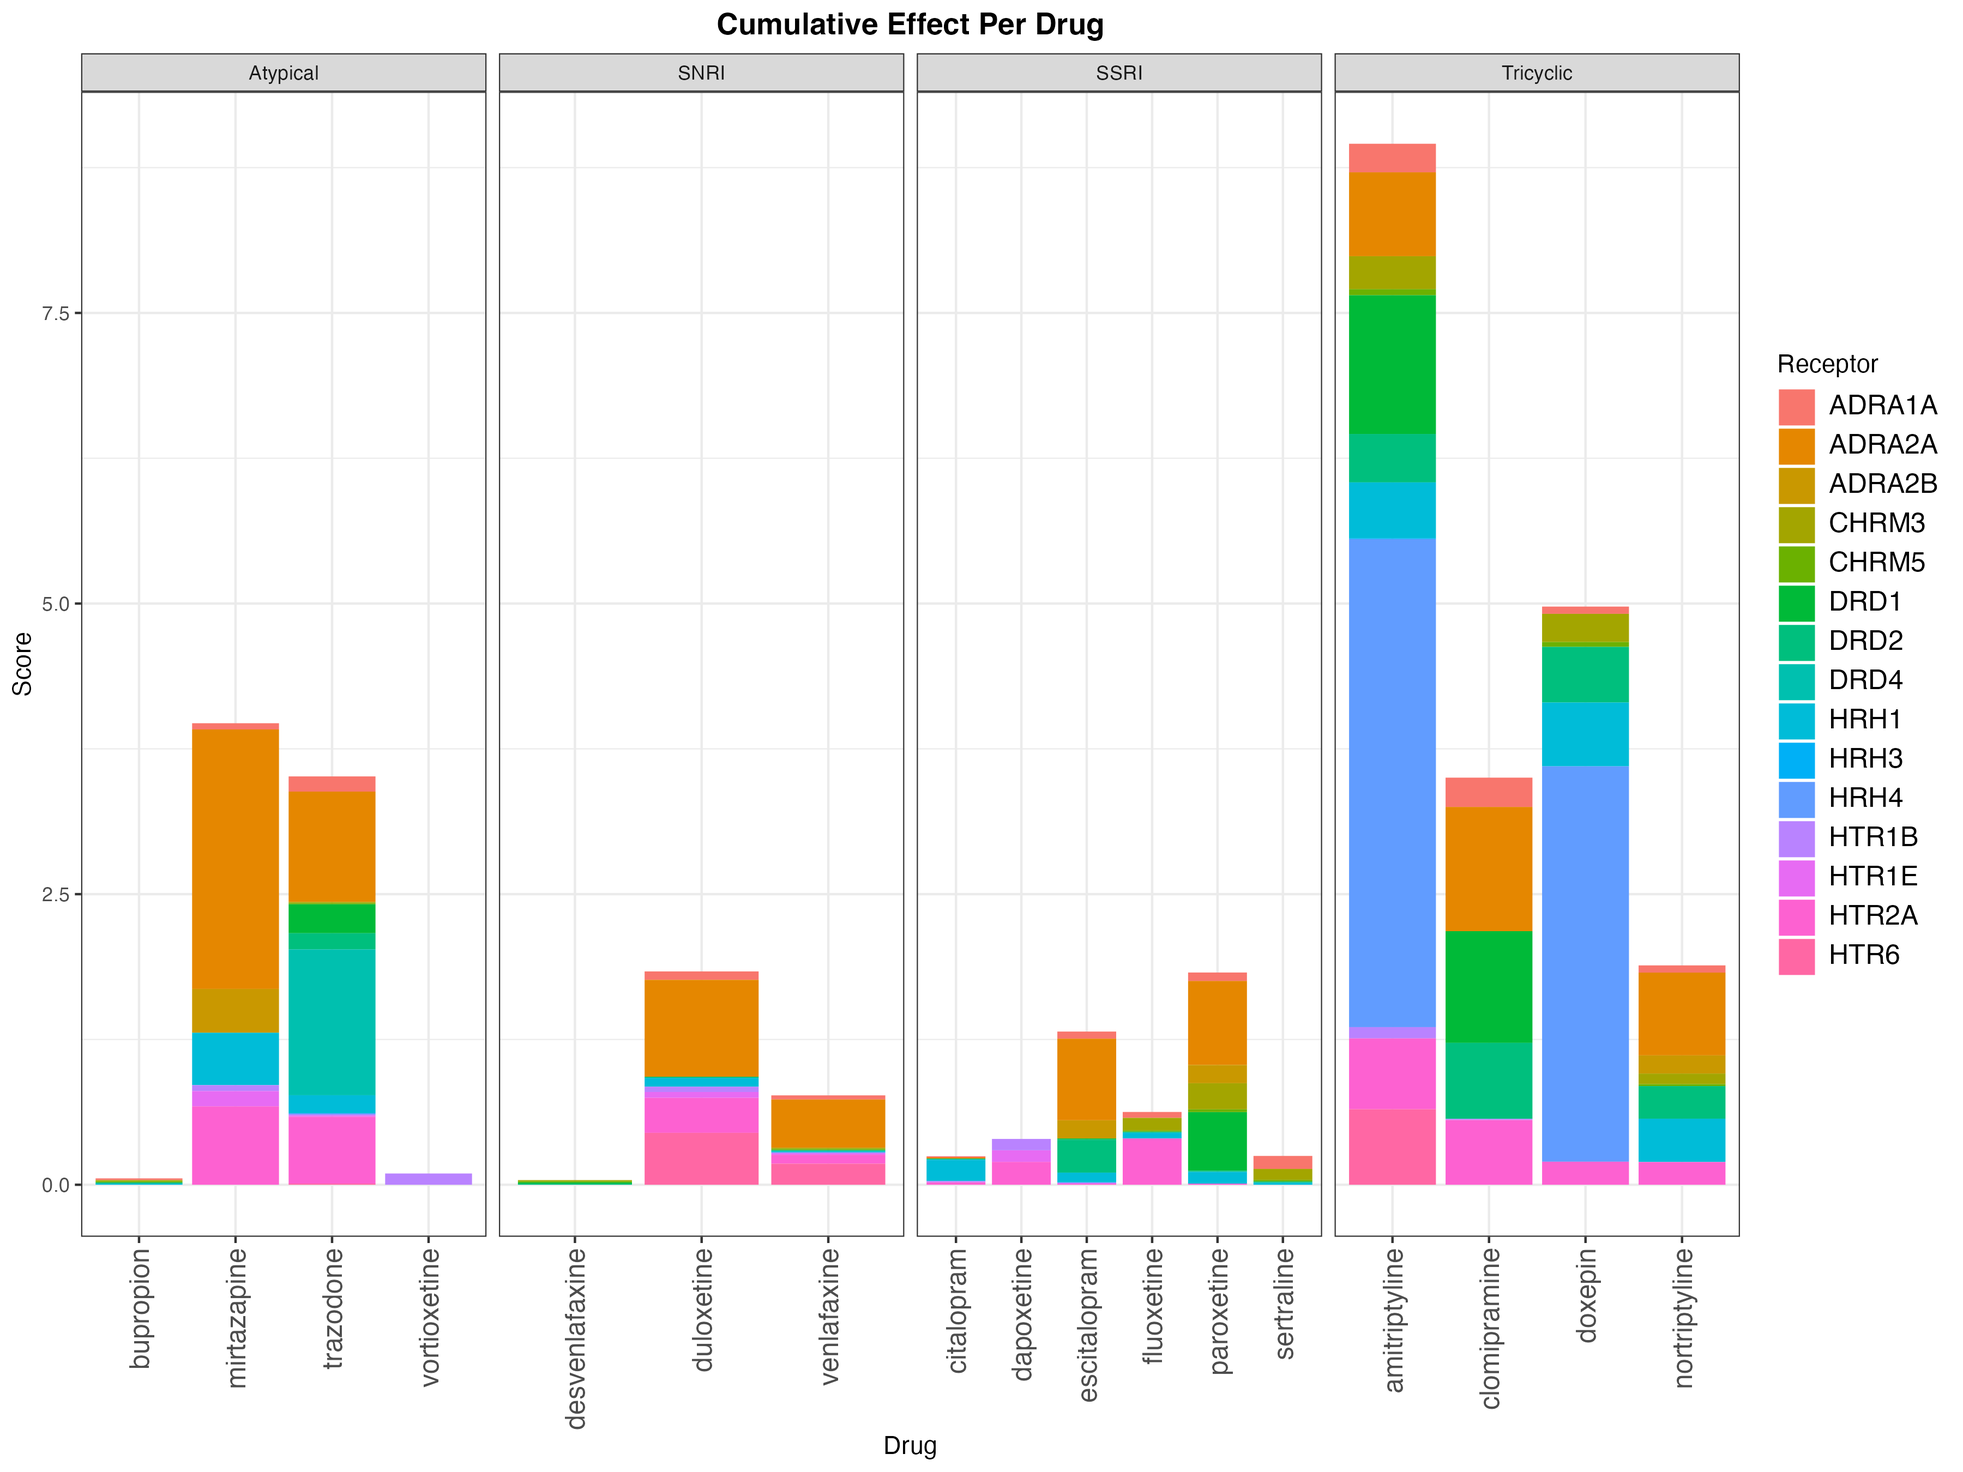
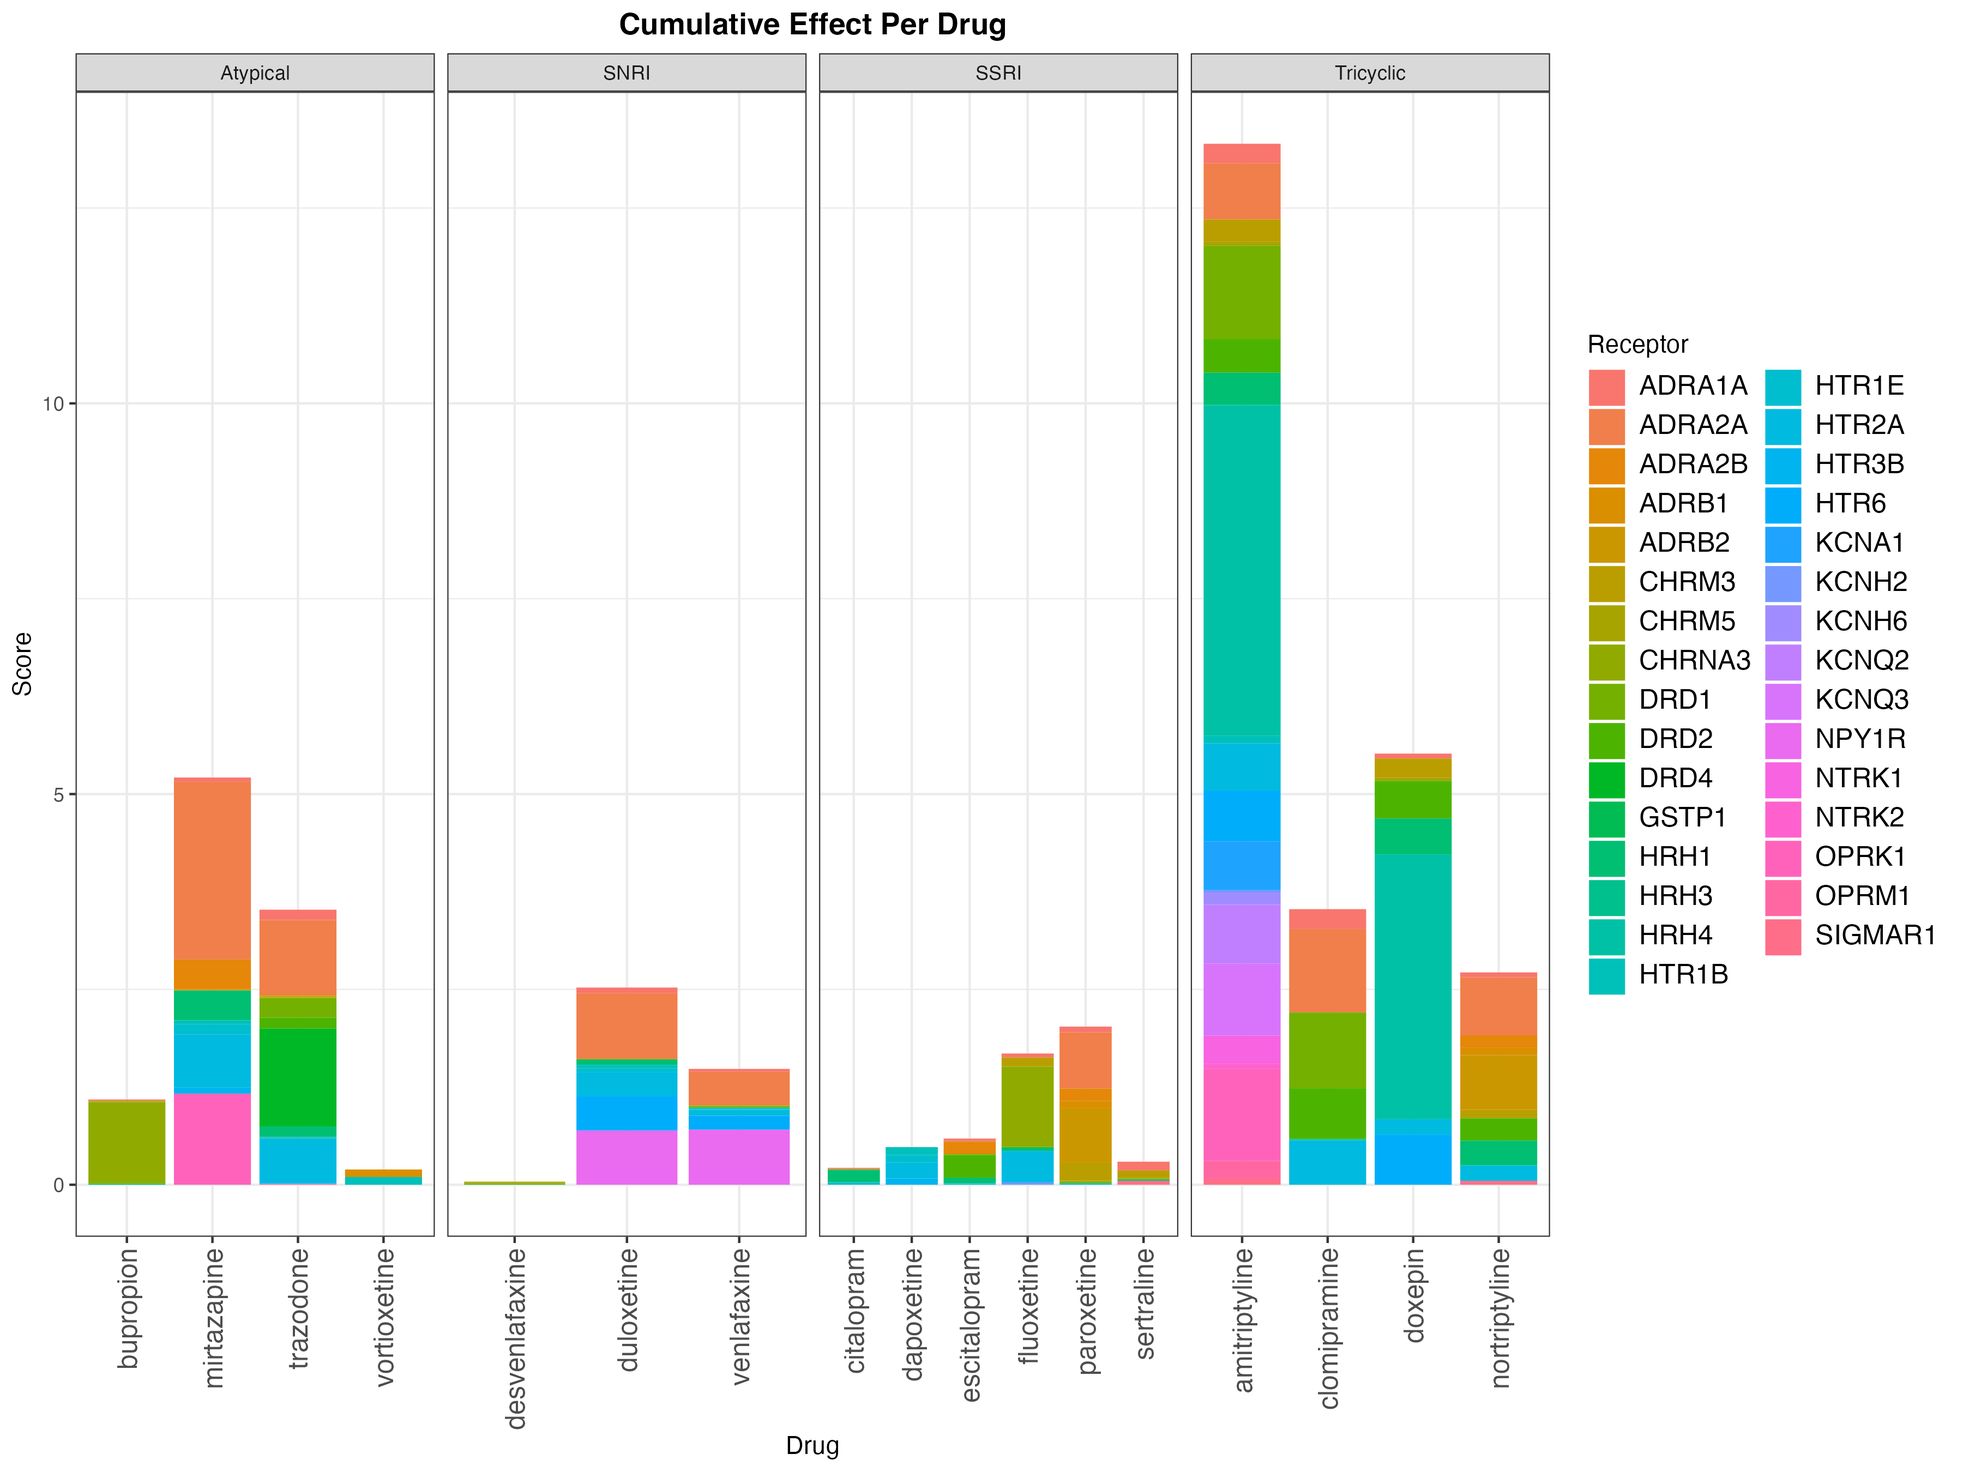
Updating side effect graphs for 009

diff --git a/docs/009/receptor_side_effect_graphs.html b/docs/009/receptor_side_effect_graphs.html
@@ -14611,7 +14611,7 @@ $$\forall IV \in R,  b(𝛽_{𝐼𝑉} * pKi)$$<p>Where</p>
 <p>CAVEATS:</p>
 <ol>
 <li>Some receptors did not have binding affinity data.  I defaulted to a pKI score of 0.84 ( =~ 1430 ki), which is the average of all other measuresments</li>
-<li>I used a coloc threshold of h4 &gt; 60% &amp;&amp; h3 &lt; 10%, in order to include many more data points while keeping results due to low power, and filtering results due to different putative causal variants</li>
+<li>I used a coloc threshold of h4 &gt; 60% &amp;&amp; h3 &lt; 20%, in order to include many more data points while keeping results due to low power, and filtering results due to different putative causal variants</li>
 </ol>
 
 </div>
@@ -14649,6 +14649,51 @@ $$\forall IV \in R,  b(𝛽_{𝐼𝑉} * pKi)$$<p>Where</p>
 </div>
 <div class="jp-InputArea jp-Cell-inputArea"><div class="jp-InputPrompt jp-InputArea-prompt">
 </div><div class="jp-RenderedHTMLCommon jp-RenderedMarkdown jp-MarkdownOutput " data-mime-type="text/markdown">
+<h3 id="Highlighted-Side-effects">Highlighted Side-effects<a class="anchor-link" href="#Highlighted-Side-effects">&#182;</a></h3><h4 id="Weight-Gain:">Weight Gain:<a class="anchor-link" href="#Weight-Gain:">&#182;</a></h4><p>Once again, we see CHRM3 show up, and with a high level of matching with existing literature.  There are interesting other markers in both directions.  Weight does seem to be reported as gain and loss amitriptyline, so the confused graph may be accurate.</p>
+<ul>
+<li>High likelihood of weight gain: amitriptyline, doxepine, maprotiline, mirtazapine, trimipramine</li>
+<li>Medium: clomipramine, imipramine, nortriptyline</li>
+<li>Low: agomelatine, citalopram, escitalopram, fluoxetine, fluvoxamine, moclobemide, sertraline, vortioxetine, tranylcypromine.</li>
+</ul>
+<p>2 things:</p>
+<ol>
+<li>the CHRM3 results align with the triciclic results, but NOT the SSRI results.</li>
+<li>If HRH1 is in the wrong direction (which it could be), this would make more sense with tricyclic results AND atypical results.</li>
+</ol>
+<p>I'm gonna guess HRH1 is not pointing in the right direction: Link between HRH1 and Weight (in anti-psychotics): <a href="https://pubmed.ncbi.nlm.nih.gov/21336576/">https://pubmed.ncbi.nlm.nih.gov/21336576/</a></p>
+<p><img src="scratch/results/plots/Weight_change_vs_drug_h4_60.png" alt="alt" /></p>
+<h4 id="Blood-Pressure/Hypertension-and-Cholesterol">Blood Pressure/Hypertension and Cholesterol<a class="anchor-link" href="#Blood-Pressure/Hypertension-and-Cholesterol">&#182;</a></h4><p>I'm not sure whether to include other possible cardiac / heart diseases in the results as well.  Possibly some guidance would be necessary as to what might be included in our 'side-effect' map.  For example, Aws mentioned that cardiac rhythm events and triciclic drugs have some literature around them.</p>
+<p>Also 'Dyslipidaemia', but that might also be mostly covered in the cholesterol chart below</p>
+<table>
+<thead>
+<tr>
+  <th>.</th>
+  <th>.</th>
+</tr>
+</thead>
+<tbody>
+<tr>
+  <td><img src="scratch/results/plots/Blood_Pressure_vs_drug_h4_60.png" alt="alt" /></td>
+  <td><img src="scratch/results/plots/Cholesterol_vs_drug_h4_60.png" alt="alt" /></td>
+</tr>
+</tbody>
+</table>
+<p>Interestingly, amitriptaline is prescribed for migraines, which might be backed up by this chart:</p>
+<p><img src="scratch/results/plots/Ear_and_labyrinth_disorders_vs_drug_h4_60.png" alt="alt" /></p>
+
+</div>
+</div>
+</div>
+</div>
+<div class="jp-Cell jp-MarkdownCell jp-Notebook-cell">
+<div class="jp-Cell-inputWrapper">
+<div class="jp-Collapser jp-InputCollapser jp-Cell-inputCollapser">
+</div>
+<div class="jp-InputArea jp-Cell-inputArea"><div class="jp-InputPrompt jp-InputArea-prompt">
+</div><div class="jp-RenderedHTMLCommon jp-RenderedMarkdown jp-MarkdownOutput " data-mime-type="text/markdown">
+<hr />
+<hr />
+<hr />
 <h3 id="Side-Effect-Per-Receptor-vs-Drug">Side Effect Per Receptor vs Drug<a class="anchor-link" href="#Side-Effect-Per-Receptor-vs-Drug">&#182;</a></h3><table>
 <thead>
 <tr>
@@ -14658,60 +14703,60 @@ $$\forall IV \in R,  b(𝛽_{𝐼𝑉} * pKi)$$<p>Where</p>
 </thead>
 <tbody>
 <tr>
-  <td><img src="scratch/results/plots/Hypertension_vs_drug_cumulative_h4_60.png" alt="alt" /></td>
-  <td><img src="scratch/results/plots/Cholesterol_serum_elevated_vs_drug_cumulative_h4_60.png" alt="alt" /></td>
+  <td><img src="scratch/results/plots/Blood_Pressure_vs_drug_h4_60.png" alt="alt" /></td>
+  <td><img src="scratch/results/plots/Cholesterol_vs_drug_h4_60.png" alt="alt" /></td>
 </tr>
 <tr>
-  <td><img src="scratch/results/plots/Weight_change_vs_drug_cumulative_h4_60.png" alt="alt" /></td>
-  <td><img src="scratch/results/plots/Hypokalaemia_vs_drug_cumulative_h4_60.png" alt="alt" /></td>
+  <td><img src="scratch/results/plots/Weight_change_vs_drug_h4_60.png" alt="alt" /></td>
+  <td><img src="scratch/results/plots/Hypokalaemia_vs_drug_h4_60.png" alt="alt" /></td>
 </tr>
 <tr>
-  <td><img src="scratch/results/plots/Urinary_Difficulties_vs_drug_cumulative_h4_60.png" alt="alt" /></td>
-  <td><img src="scratch/results/plots/Constipation_vs_drug_cumulative_h4_60.png" alt="alt" /></td>
+  <td><img src="scratch/results/plots/Urinary_Difficulties_vs_drug_h4_60.png" alt="alt" /></td>
+  <td><img src="scratch/results/plots/Constipation_vs_drug_h4_60.png" alt="alt" /></td>
 </tr>
 <tr>
-  <td><img src="scratch/results/plots/Back_pain_vs_drug_cumulative_h4_60.png" alt="alt" /></td>
-  <td><img src="scratch/results/plots/Malnutrition_vs_drug_cumulative_h4_60.png" alt="alt" /></td>
+  <td><img src="scratch/results/plots/Back_pain_vs_drug_h4_60.png" alt="alt" /></td>
+  <td><img src="scratch/results/plots/Malnutrition_vs_drug_h4_60.png" alt="alt" /></td>
 </tr>
 <tr>
-  <td><img src="scratch/results/plots/Unspecified_disorder_of_skin_and_subcutaneous_tissue_vs_drug_cumulative_h4_60.png" alt="alt" /></td>
-  <td><img src="scratch/results/plots/Conjunctivitis_vs_drug_cumulative_h4_60.png" alt="alt" /></td>
+  <td><img src="scratch/results/plots/Unspecified_disorder_of_skin_and_subcutaneous_tissue_vs_drug_h4_60.png" alt="alt" /></td>
+  <td><img src="scratch/results/plots/Conjunctivitis_vs_drug_h4_60.png" alt="alt" /></td>
 </tr>
 <tr>
-  <td><img src="scratch/results/plots/Tinnitus_vs_drug_cumulative_h4_60.png" alt="alt" /></td>
-  <td><img src="scratch/results/plots/Headache_vs_drug_cumulative_h4_60.png" alt="alt" /></td>
+  <td><img src="scratch/results/plots/Tinnitus_vs_drug_h4_60.png" alt="alt" /></td>
+  <td><img src="scratch/results/plots/Headache_vs_drug_h4_60.png" alt="alt" /></td>
 </tr>
 <tr>
-  <td><img src="scratch/results/plots/Oedema_vs_drug_cumulative_h4_60.png" alt="alt" /></td>
-  <td><img src="scratch/results/plots/Generalised_oedema___Oedema_peripheral_vs_drug_cumulative_h4_60.png" alt="alt" /></td>
+  <td><img src="scratch/results/plots/Oedema_vs_drug_h4_60.png" alt="alt" /></td>
+  <td><img src="scratch/results/plots/Generalised_oedema___Oedema_peripheral_vs_drug_h4_60.png" alt="alt" /></td>
 </tr>
 <tr>
-  <td><img src="scratch/results/plots/Eczema___Dry_skin_vs_drug_cumulative_h4_60.png" alt="alt" /></td>
-  <td><img src="scratch/results/plots/Irritability_vs_drug_cumulative_h4_60.png" alt="alt" /></td>
+  <td><img src="scratch/results/plots/Eczema___Dry_skin_vs_drug_h4_60.png" alt="alt" /></td>
+  <td><img src="scratch/results/plots/Irritability_vs_drug_h4_60.png" alt="alt" /></td>
 </tr>
 <tr>
-  <td><img src="scratch/results/plots/Bruxism_vs_drug_cumulative_h4_60.png" alt="alt" /></td>
-  <td><img src="scratch/results/plots/Rhinitis_vs_drug_cumulative_h4_60.png" alt="alt" /></td>
+  <td><img src="scratch/results/plots/Bruxism_vs_drug_h4_60.png" alt="alt" /></td>
+  <td><img src="scratch/results/plots/Rhinitis_vs_drug_h4_60.png" alt="alt" /></td>
 </tr>
 <tr>
-  <td><img src="scratch/results/plots/Anorexia_vs_drug_cumulative_h4_60.png" alt="alt" /></td>
-  <td><img src="scratch/results/plots/Ear_and_labyrinth_disorders_vs_drug_cumulative_h4_60.png" alt="alt" /></td>
+  <td><img src="scratch/results/plots/Anorexia_vs_drug_h4_60.png" alt="alt" /></td>
+  <td><img src="scratch/results/plots/Ear_and_labyrinth_disorders_vs_drug_h4_60.png" alt="alt" /></td>
 </tr>
 <tr>
-  <td><img src="scratch/results/plots/Insomnia___Sleep_Disorder_vs_drug_cumulative_h4_60.png" alt="alt" /></td>
-  <td><img src="scratch/results/plots/Anxiety_vs_drug_cumulative_h4_60.png" alt="alt" /></td>
+  <td><img src="scratch/results/plots/Insomnia___Sleep_Disorder_vs_drug_h4_60.png" alt="alt" /></td>
+  <td><img src="scratch/results/plots/Anxiety_vs_drug_h4_60.png" alt="alt" /></td>
 </tr>
 <tr>
-  <td><img src="scratch/results/plots/Bronchospasm_vs_drug_cumulative_h4_60.png" alt="alt" /></td>
-  <td><img src="scratch/results/plots/Bronchitis_vs_drug_cumulative_h4_60.png" alt="alt" /></td>
+  <td><img src="scratch/results/plots/Bronchospasm_vs_drug_h4_60.png" alt="alt" /></td>
+  <td><img src="scratch/results/plots/Bronchitis_vs_drug_h4_60.png" alt="alt" /></td>
 </tr>
 <tr>
-  <td><img src="scratch/results/plots/Upset_stomach_vs_drug_cumulative_h4_60.png" alt="alt" /></td>
-  <td><img src="scratch/results/plots/Abdominal_pain___disorder_vs_drug_cumulative_h4_60.png" alt="alt" /></td>
+  <td><img src="scratch/results/plots/Upset_stomach_vs_drug_h4_60.png" alt="alt" /></td>
+  <td><img src="scratch/results/plots/Abdominal_pain___disorder_vs_drug_h4_60.png" alt="alt" /></td>
 </tr>
 <tr>
-  <td><img src="scratch/results/plots/Sinusitis_vs_drug_cumulative_h4_60.png" alt="alt" /></td>
-  <td><img src="scratch/results/plots/Shoulder_pain_vs_drug_cumulative_h4_60.png" alt="alt" /></td>
+  <td><img src="scratch/results/plots/Sinusitis_vs_drug_h4_60.png" alt="alt" /></td>
+  <td><img src="scratch/results/plots/Shoulder_pain_vs_drug_h4_60.png" alt="alt" /></td>
 </tr>
 </tbody>
 </table>
@@ -14726,6 +14771,9 @@ $$\forall IV \in R,  b(𝛽_{𝐼𝑉} * pKi)$$<p>Where</p>
 </div>
 <div class="jp-InputArea jp-Cell-inputArea"><div class="jp-InputPrompt jp-InputArea-prompt">
 </div><div class="jp-RenderedHTMLCommon jp-RenderedMarkdown jp-MarkdownOutput " data-mime-type="text/markdown">
+<hr />
+<hr />
+<hr />
 <h3 id="Specific-Effects-Per-Receptor">Specific Effects Per Receptor<a class="anchor-link" href="#Specific-Effects-Per-Receptor">&#182;</a></h3><table>
 <thead>
 <tr>
@@ -14735,35 +14783,43 @@ $$\forall IV \in R,  b(𝛽_{𝐼𝑉} * pKi)$$<p>Where</p>
 </thead>
 <tbody>
 <tr>
-  <td><img src="scratch/results/plots/DRD2_vs_side_effects_cumulative_h4_60.png" alt="alt" /></td>
-  <td><img src="scratch/results/plots/ADRA2B_vs_side_effects_cumulative_h4_60.png" alt="alt" /></td>
+  <td><img src="scratch/results/plots/DRD2_vs_side_effects_h4_60.png" alt="alt" /></td>
+  <td><img src="scratch/results/plots/ADRA2B_vs_side_effects_h4_60.png" alt="alt" /></td>
 </tr>
 <tr>
-  <td><img src="scratch/results/plots/DRD1_vs_side_effects_cumulative_h4_60.png" alt="alt" /></td>
-  <td><img src="scratch/results/plots/HRH1_vs_side_effects_cumulative_h4_60.png" alt="alt" /></td>
+  <td><img src="scratch/results/plots/DRD1_vs_side_effects_h4_60.png" alt="alt" /></td>
+  <td><img src="scratch/results/plots/HRH1_vs_side_effects_h4_60.png" alt="alt" /></td>
 </tr>
 <tr>
-  <td><img src="scratch/results/plots/HTR1B_vs_side_effects_cumulative_h4_60.png" alt="alt" /></td>
-  <td><img src="scratch/results/plots/ADRA2A_vs_side_effects_cumulative_h4_60.png" alt="alt" /></td>
+  <td><img src="scratch/results/plots/HTR1B_vs_side_effects_h4_60.png" alt="alt" /></td>
+  <td><img src="scratch/results/plots/ADRA2A_vs_side_effects_h4_60.png" alt="alt" /></td>
 </tr>
 <tr>
-  <td><img src="scratch/results/plots/DRD4_vs_side_effects_cumulative_h4_60.png" alt="alt" /></td>
-  <td><img src="scratch/results/plots/HTR6_vs_side_effects_cumulative_h4_60.png" alt="alt" /></td>
+  <td><img src="scratch/results/plots/OPRK1_vs_side_effects_h4_60.png" alt="alt" /></td>
+  <td><img src="scratch/results/plots/OPRM1_vs_side_effects_h4_60.png" alt="alt" /></td>
 </tr>
 <tr>
-  <td><img src="scratch/results/plots/ADRA1A_vs_side_effects_cumulative_h4_60.png" alt="alt" /></td>
-  <td><img src="scratch/results/plots/HTR1E_vs_side_effects_cumulative_h4_60.png" alt="alt" /></td>
+  <td><img src="scratch/results/plots/NTRK1_vs_side_effects_h4_60.png" alt="alt" /></td>
+  <td><img src="scratch/results/plots/KCNH2_vs_side_effects_h4_60.png" alt="alt" /></td>
 </tr>
 <tr>
-  <td><img src="scratch/results/plots/CHRM3_vs_side_effects_cumulative_h4_60.png" alt="alt" /></td>
-  <td><img src="scratch/results/plots/CHRM5_vs_side_effects_cumulative_h4_60.png" alt="alt" /></td>
+  <td><img src="scratch/results/plots/DRD4_vs_side_effects_h4_60.png" alt="alt" /></td>
+  <td><img src="scratch/results/plots/HTR6_vs_side_effects_h4_60.png" alt="alt" /></td>
 </tr>
 <tr>
-  <td><img src="scratch/results/plots/HRH4_vs_side_effects_cumulative_h4_60.png" alt="alt" /></td>
-  <td><img src="scratch/results/plots/HTR2A_vs_side_effects_cumulative_h4_60.png" alt="alt" /></td>
+  <td><img src="scratch/results/plots/ADRA1A_vs_side_effects_h4_60.png" alt="alt" /></td>
+  <td><img src="scratch/results/plots/HTR1E_vs_side_effects_h4_60.png" alt="alt" /></td>
 </tr>
 <tr>
-  <td><img src="scratch/results/plots/HRH3_vs_side_effects_cumulative_h4_60.png" alt="alt" /></td>
+  <td><img src="scratch/results/plots/CHRM3_vs_side_effects_h4_60.png" alt="alt" /></td>
+  <td><img src="scratch/results/plots/CHRM5_vs_side_effects_h4_60.png" alt="alt" /></td>
+</tr>
+<tr>
+  <td><img src="scratch/results/plots/HRH4_vs_side_effects_h4_60.png" alt="alt" /></td>
+  <td><img src="scratch/results/plots/HTR2A_vs_side_effects_h4_60.png" alt="alt" /></td>
+</tr>
+<tr>
+  <td><img src="scratch/results/plots/HRH3_vs_side_effects_h4_60.png" alt="alt" /></td>
   <td></td>
 </tr>
 </tbody>

diff --git a/docs/009/index.html b/docs/009/index.html
@@ -14635,18 +14635,18 @@ body[data-format='mobile'] .jp-OutputArea-child .jp-OutputArea-output {
 	<tr><td>sertraline     </td><td>SSRI     </td><td>SLC6A4</td><td>                                               </td></tr>
 	<tr><td>fluoxetine     </td><td>SSRI     </td><td></td><td>                                               </td></tr>
 	<tr><td>paroxetine     </td><td>SSRI     </td><td></td><td>                                               </td></tr>
-	<tr><td>dapoxetine     </td><td>SSRI     </td><td></td><td>Not included: Limited side effect info in SIDER</td></tr>
-	<tr><td>escitalopram   </td><td>SSRI     </td><td>SLC6A4</td><td>Not included: Limited side effect info in SIDER</td></tr>
-	<tr><td>isocarboxazid  </td><td>MAOI     </td><td></td><td>Not included: Limited side effect info in SIDER</td></tr>
+	<tr><td>dapoxetine     </td><td>SSRI     </td><td></td><td>Limited side effect info in SIDER</td></tr>
+	<tr><td>escitalopram   </td><td>SSRI     </td><td>SLC6A4</td><td>Limited side effect info in SIDER</td></tr>
+	<tr><td>isocarboxazid  </td><td>MAOI     </td><td></td><td>Limited side effect info in SIDER</td></tr>
 	<tr><td>selegiline     </td><td>MAOI     </td><td>MAOB, MAOA</td><td>MAOB and MAOA not present in MetaBrain QTLs    </td></tr>
-	<tr><td>phenelzine     </td><td>MAOI     </td><td></td><td>Not included: Limited side effect info in SIDER</td></tr>
-	<tr><td>tranylcypromine</td><td>MAOI     </td><td>MAOB, MAOA</td><td>Not included: Limited side effect info in SIDER</td></tr>
+	<tr><td>phenelzine     </td><td>MAOI     </td><td></td><td>Limited side effect info in SIDER</td></tr>
+	<tr><td>tranylcypromine</td><td>MAOI     </td><td>MAOB, MAOA</td><td>Limited side effect info in SIDER</td></tr>
 	<tr><td>venlafaxine    </td><td>SNRI     </td><td></td><td>                                               </td></tr>
 	<tr><td>desvenlafaxine </td><td>SNRI     </td><td></td><td>                                               </td></tr>
 	<tr><td>levomilnacipran</td><td>SNRI     </td><td></td><td>                                               </td></tr>
 	<tr><td>duloxetine     </td><td>SNRI     </td><td>SLC6A2</td><td>                                               </td></tr>
-	<tr><td>amitriptyline  </td><td>tricyclic</td><td>SLC6A2, SLC6A4, HTR2A </td><td>Not included: Limited side effect info in SIDER</td></tr>
-	<tr><td>nortriptyline  </td><td>tricyclic</td><td></td><td>Not included: Limited side effect info in SIDER</td></tr>
+	<tr><td>amitriptyline  </td><td>tricyclic</td><td>SLC6A2, SLC6A4, HTR2A </td><td>Limited side effect info in SIDER</td></tr>
+	<tr><td>nortriptyline  </td><td>tricyclic</td><td></td><td>Limited side effect info in SIDER</td></tr>
 	<tr><td>clomipramine   </td><td>tricyclic</td><td></td><td>                                               </td></tr>
 	<tr><td>doxepin        </td><td>tricyclic</td><td>HRH1  , HRH2  , SLC6A2, SLC6A4</td><td>                                               </td></tr>
 	<tr><td>trazodone      </td><td>atypical </td><td>HTR2A , HTR2C , SLC6A4, HTR1A </td><td>                                               </td></tr>
